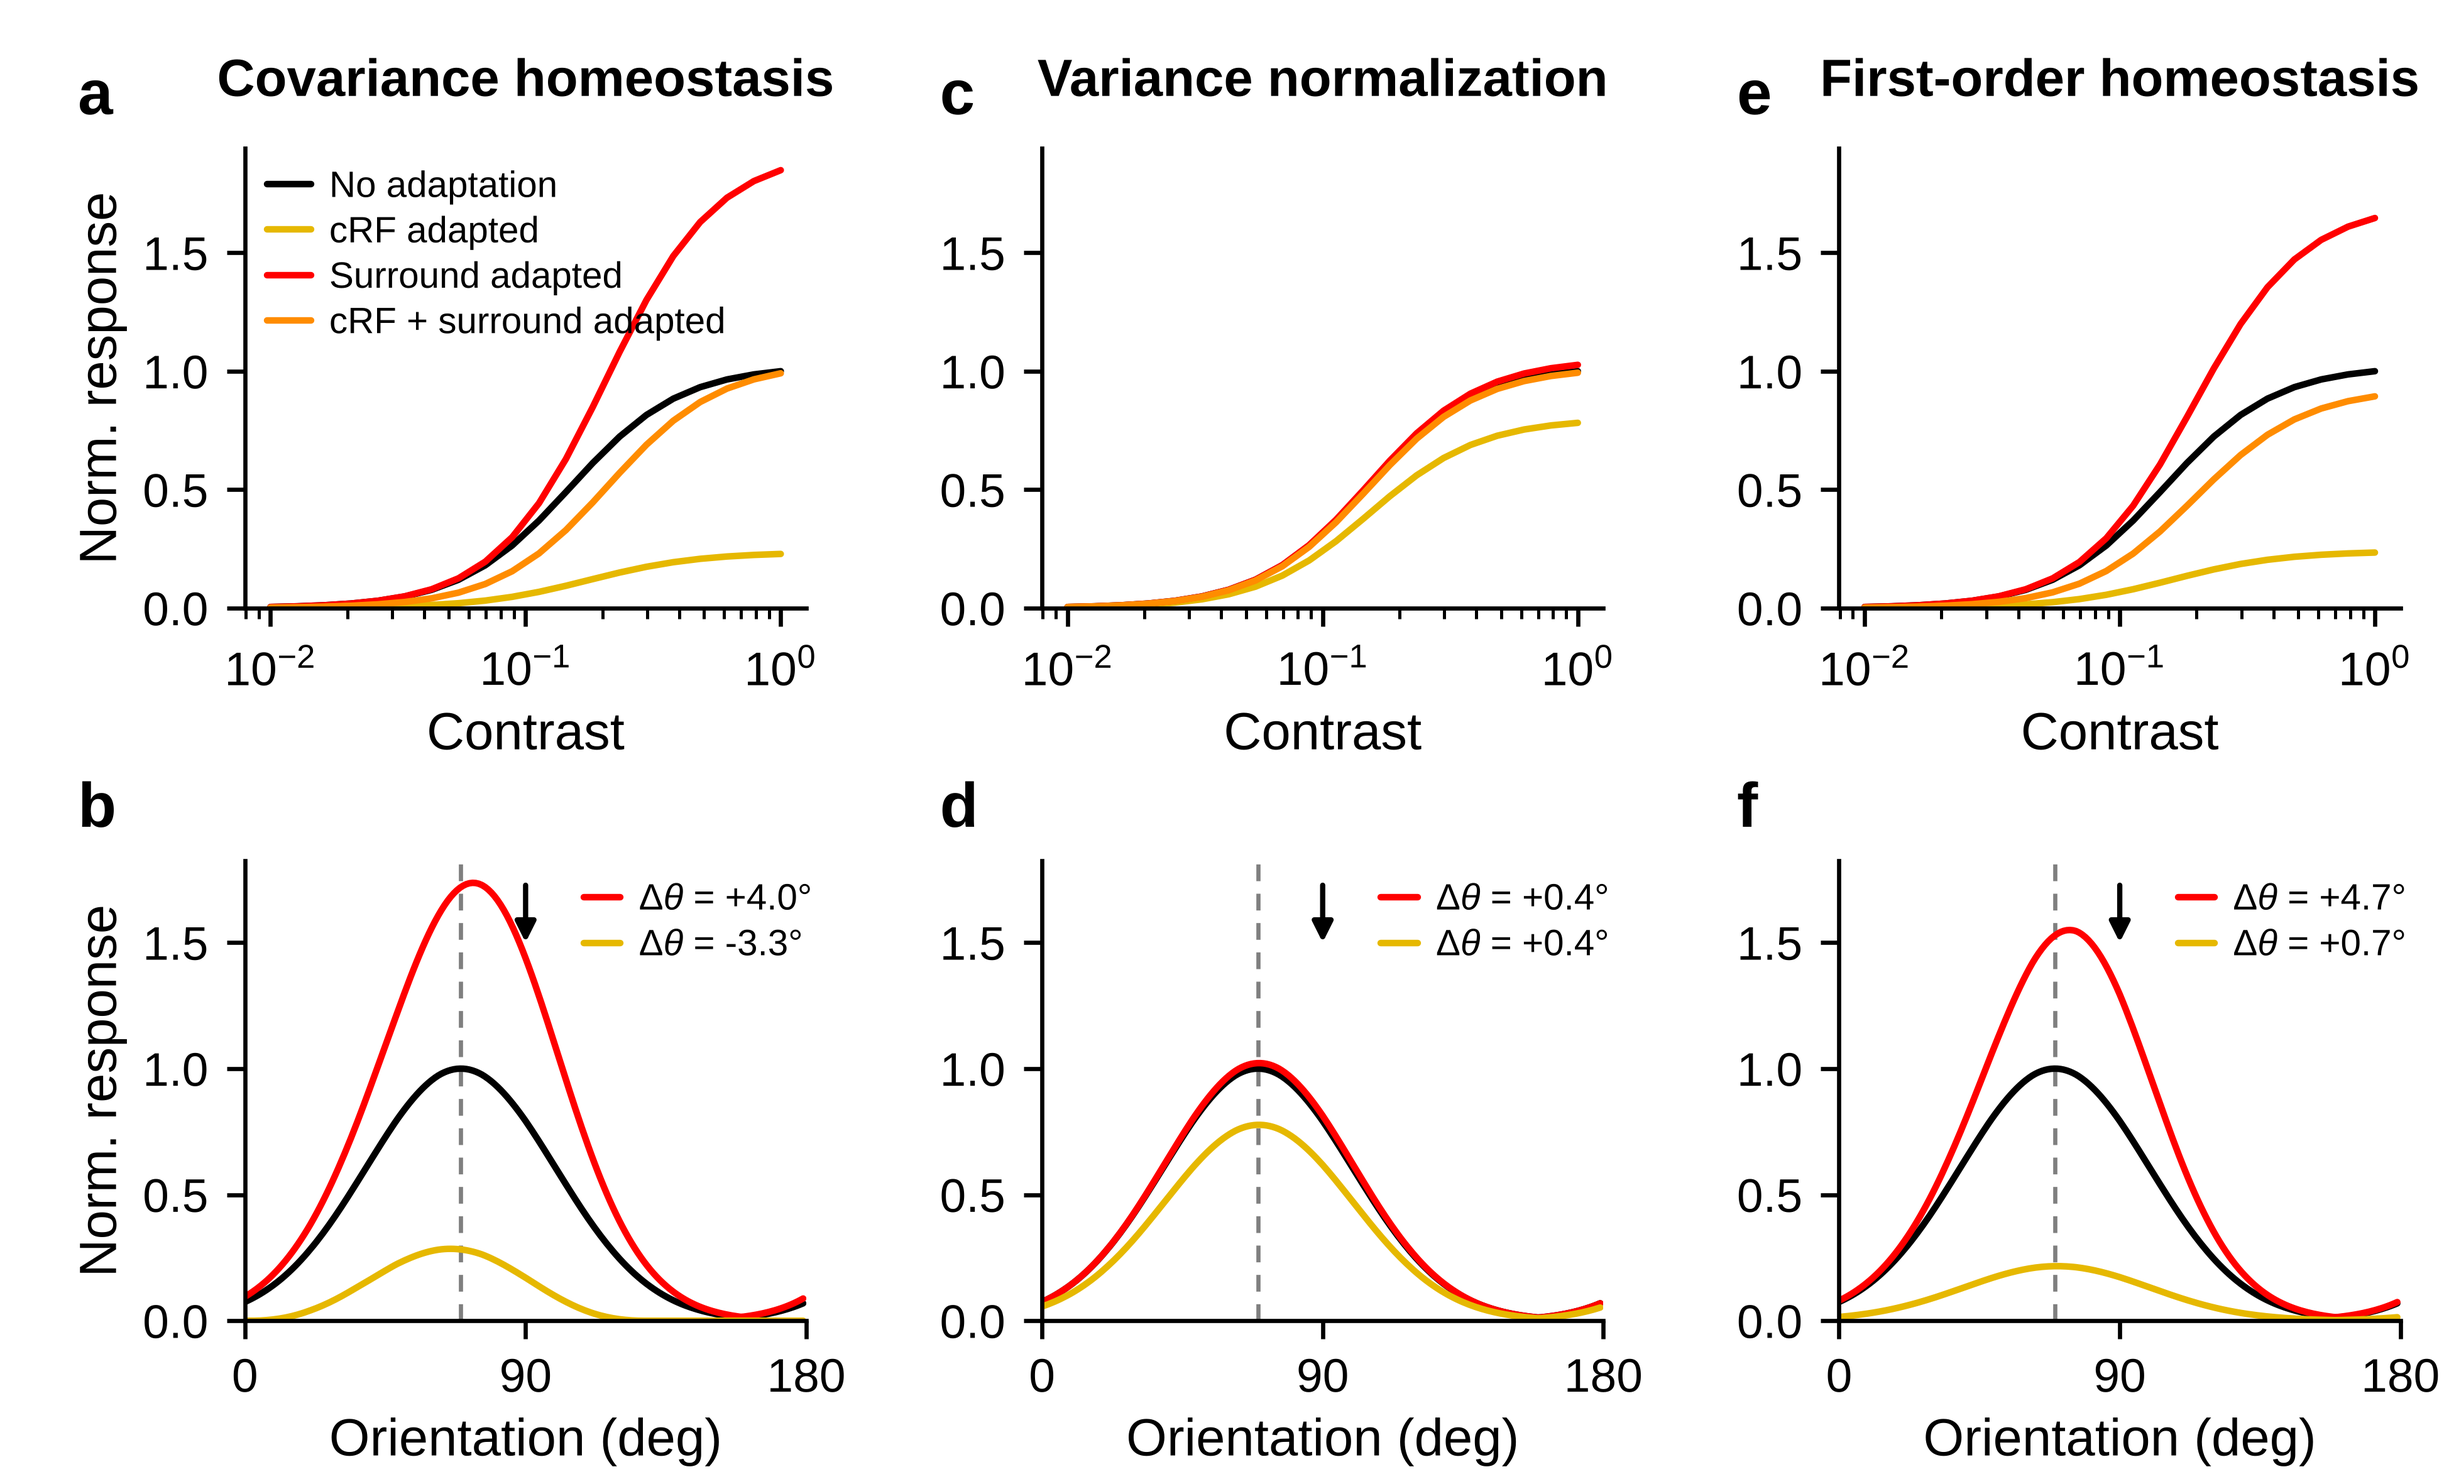
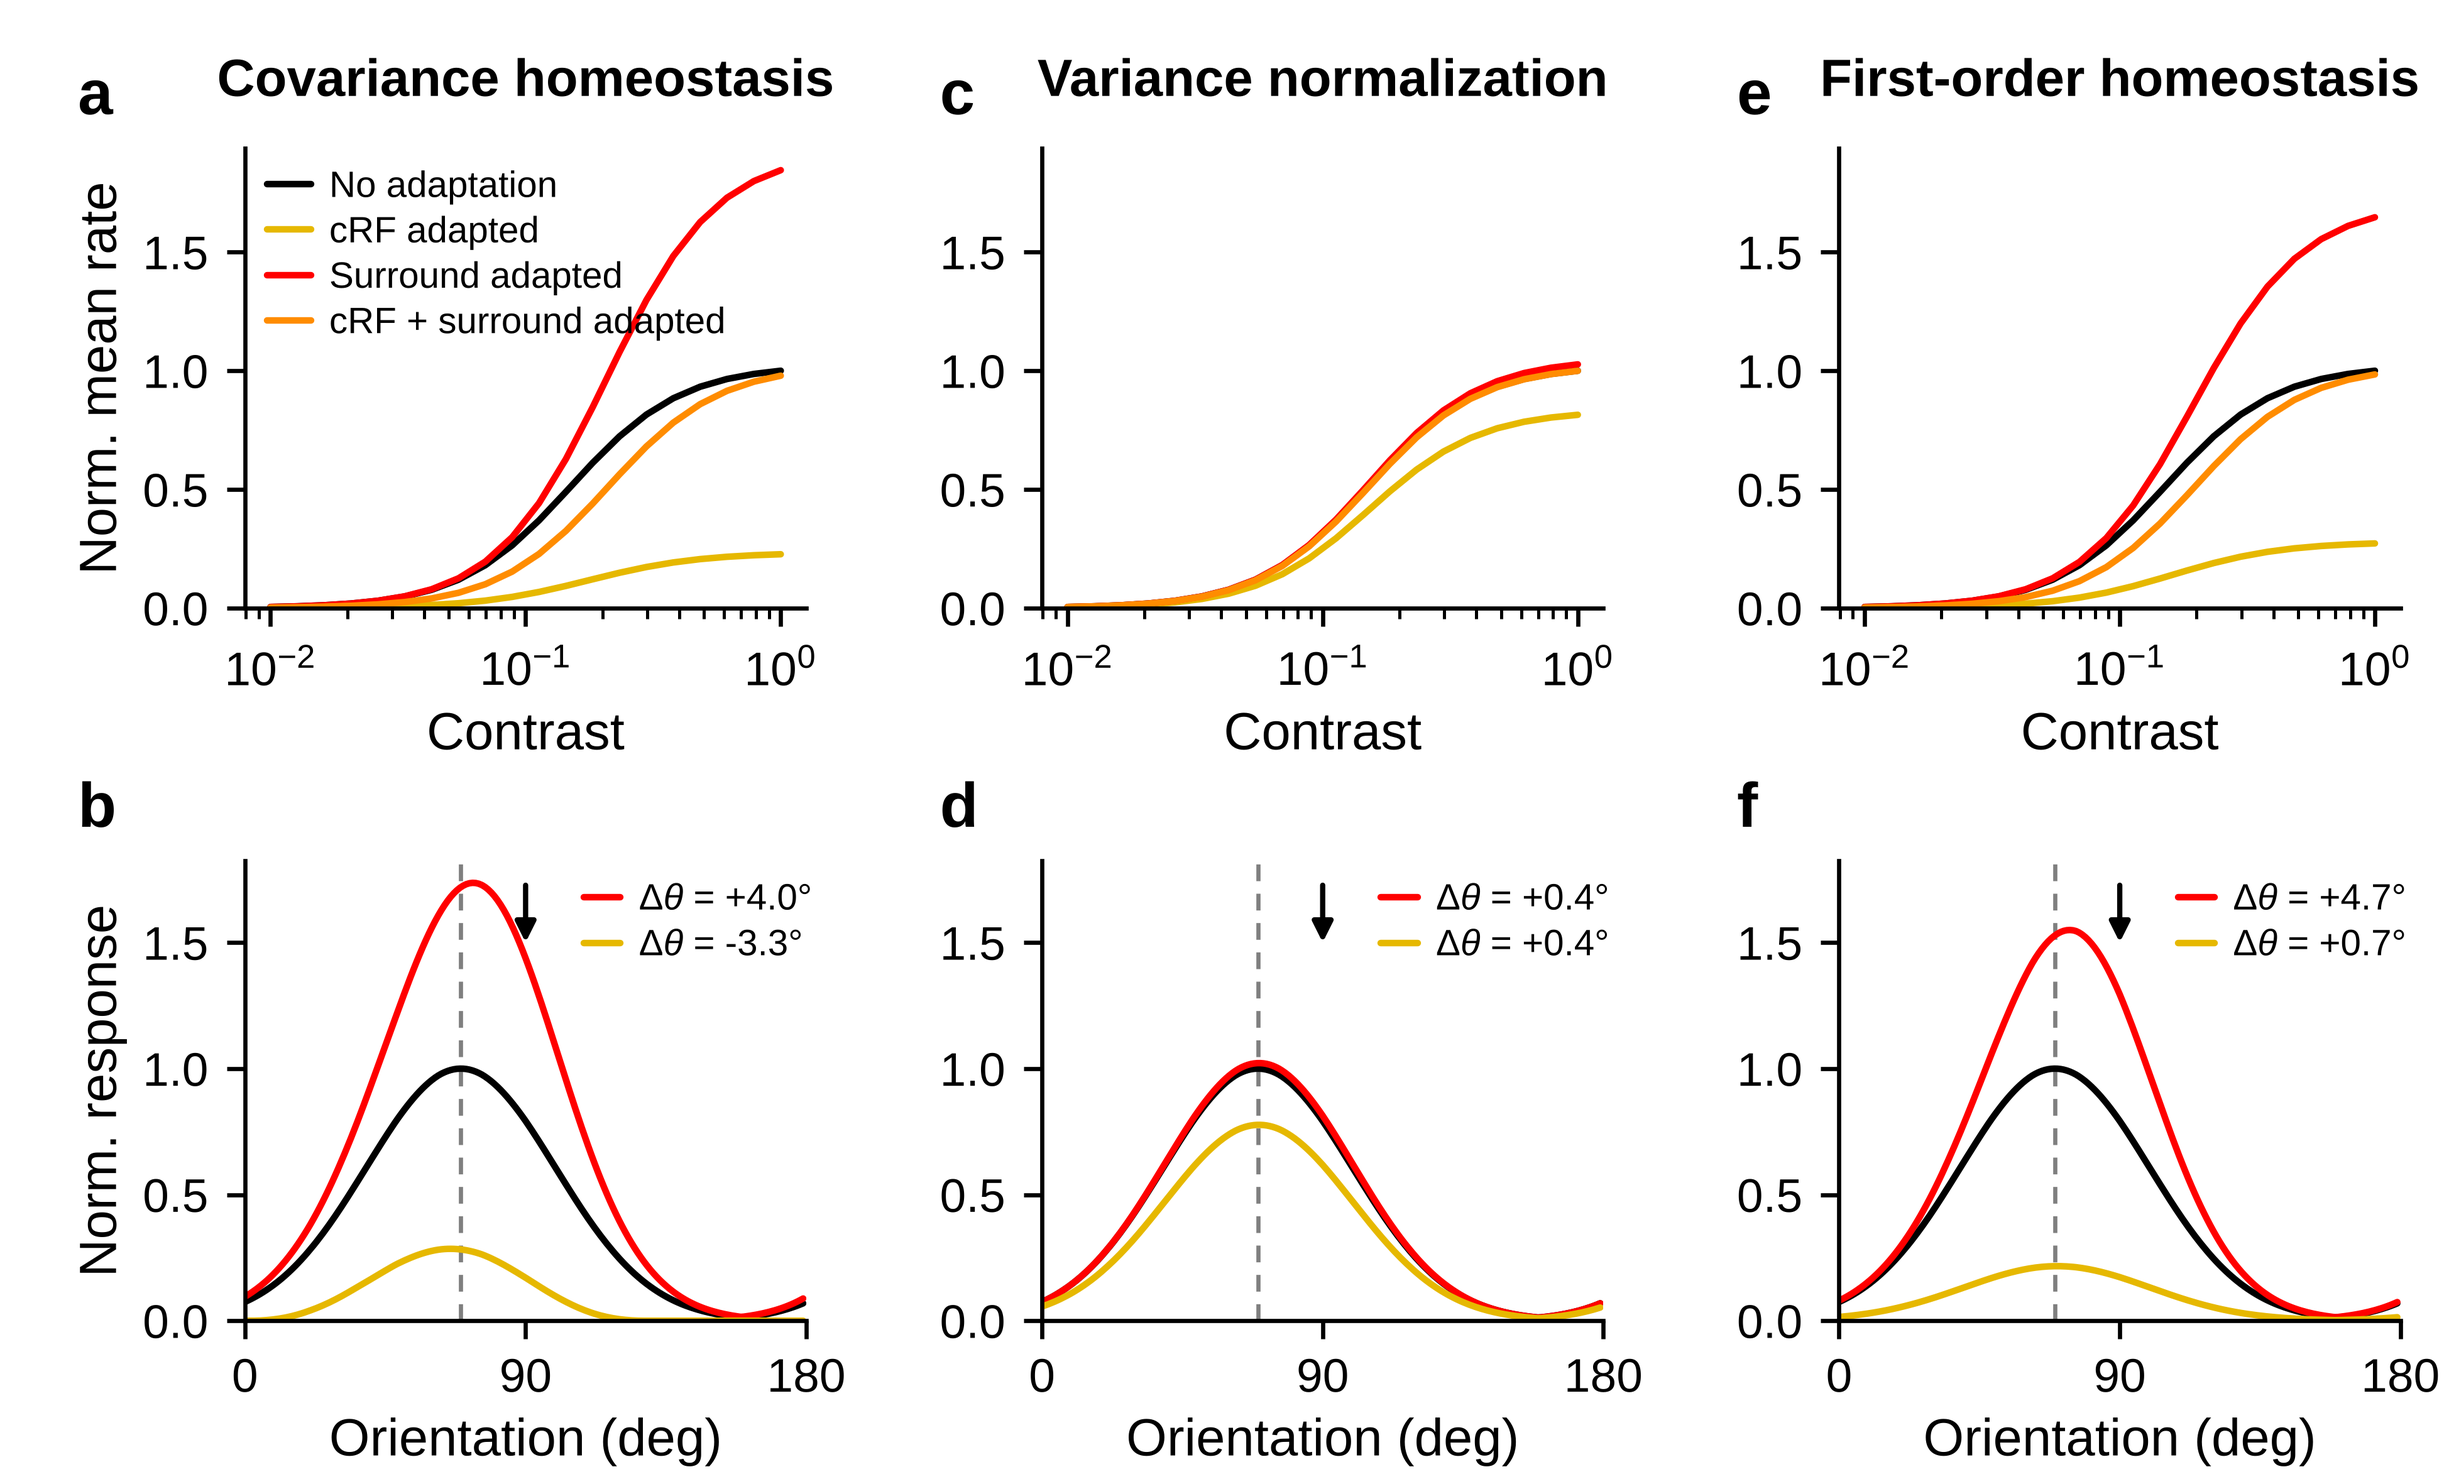
Alternative rules: plot contrast-response functions as the mean cRF firing rate
The l2 norm of the cRF rates also tracks the shape of the population profile;
the mean rate is the conventional population measure and is conserved at
saturation by normalization. The l2 norm is still saved in the .npz.

Claude-Session: https://claude.ai/code/session_01Ln6WRpg3Uwym9YhWth2SAE

diff --git a/ORGaNICs_Whitening/supplementary/alternative_rules.py b/ORGaNICs_Whitening/supplementary/alternative_rules.py
@@ -20,8 +20,8 @@ In every case the gains are clamped to g >= 0, and the probe responses are compu
 analytical fixed point (Eq. S17), which holds for any feedback of the form W D(g) W^T.
 
 Rows of the figure (Fig. 1b,c of the main text, from adapt_single_stimulus.py):
-  1  contrast-response functions of the cRF population (l2 norm of the 13 firing rates) at the
-     adaptor orientation
+  1  contrast-response functions of the cRF population (mean firing rate of the 13 cRF neurons)
+     at the adaptor orientation
   2  tuning curves of the flank neuron (69.2 deg, 20.8 deg from the 90 deg adaptor)
 The gain trajectories and membrane-potential curves are still saved in the .npz.
 
@@ -136,9 +136,12 @@ def run_rule(rule, stim_gen, adapt_steps):
         zmin[cond] = min(zmin.get(cond, np.inf), zp[crf].min())
         return get_response_offline(dyn, probes, M[cond], rectify=rectify)
 
-    # Row 2: contrast-response functions (l2 norm of the cRF population) at the adaptor orientation
+    # Contrast-response functions at the adaptor orientation: mean firing rate of the cRF
+    # population (l2 norm kept for comparison with adapt_single_stimulus.py)
     P_c = np.stack([full(ASS.ADAPTOR_THETA, c) for c in ASS.CRF_CONTRASTS], axis=1)
-    crf_curves = {cond: np.linalg.norm(respond(cond, P_c)[crf], axis=0) for cond in ASS.CONDITIONS}
+    rates_c = {cond: respond(cond, P_c)[crf] for cond in ASS.CONDITIONS}
+    crf_curves = {cond: rates_c[cond].mean(axis=0) for cond in ASS.CONDITIONS}
+    crf_l2 = {cond: np.linalg.norm(rates_c[cond], axis=0) for cond in ASS.CONDITIONS}
 
     # Row 3: flank-neuron tuning curves
     angles = np.linspace(0, np.pi, ASS.N_PROBES, endpoint=False)
@@ -155,6 +158,7 @@ def run_rule(rule, stim_gen, adapt_steps):
     for cond in ASS.CONDITIONS:
         key = cond.replace(' ', '_')
         out[f'{rule}/crf/{key}'] = crf_curves[cond]
+        out[f'{rule}/crf_l2/{key}'] = crf_l2[cond]
         out[f'{rule}/flank/{key}'] = flank[cond]
         out[f'{rule}/vm/{key}'] = vm[cond]
         out[f'{rule}/g_cRF_final/{key}'] = frozen[cond][0]
@@ -256,7 +260,7 @@ def plot():
         ax_t.legend(loc='upper right', fontsize=7, handlelength=1.0, bbox_to_anchor=(1.05, 1.0))
 
         if j == 0:
-            ax_c.set_ylabel('Norm. response')
+            ax_c.set_ylabel('Norm. mean rate')
             ax_t.set_ylabel('Norm. response')
 
     # shared y ranges across columns
